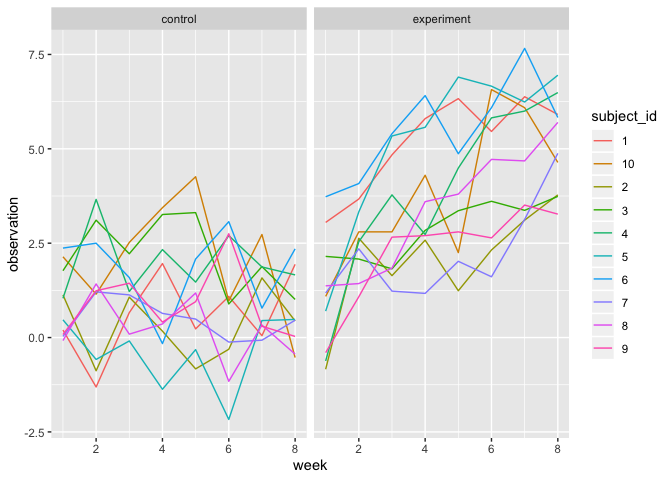
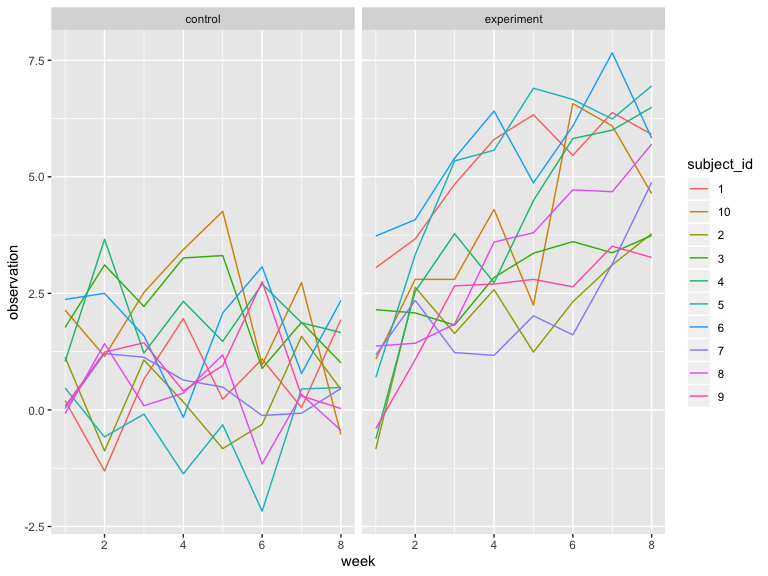
finish problem 3

Changed region(s): [[0.0, 0.0, 1.0, 1.0], [0.625, 0.0, 0.7188, 0.0625], [0.2188, 0.0, 0.3125, 0.0625]]

diff --git a/p8105_hw5_xh2395.md b/p8105_hw5_xh2395.md
@@ -17,8 +17,10 @@ library(tidyverse)
     ## ✔ readr   1.3.1     ✔ forcats 0.4.0
 
     ## ── Conflicts ───────────────────────────────────────────────────────────── tidyverse_conflicts() ──
-    ## ✖ dplyr::filter() masks stats::filter()
-    ## ✖ dplyr::lag()    masks stats::lag()
+    ## ✖ dplyr::filter()         masks stats::filter()
+    ## ✖ readr::guess_encoding() masks rvest::guess_encoding()
+    ## ✖ dplyr::lag()            masks stats::lag()
+    ## ✖ purrr::pluck()          masks rvest::pluck()
 
 ``` r
 set.seed(10)
@@ -44,15 +46,11 @@ fill_missing = function(x) {
 }
 ```
 
-**Apply the
-    fuction**
+**Apply the fuction**
 
 ``` r
 output = map_dfr(iris_with_missing, fill_missing)
 ```
-
-    ## Warning in mean.default(x, na.rm = TRUE): argument is not numeric or
-    ## logical: returning NA
 
 ## Problem 2
 
@@ -305,9 +303,6 @@ study_df = tibble(
     ##   week_8 = col_double()
     ## )
 
-    ## Warning: `cols` is now required.
-    ## Please use `cols = c(week_obs)`
-
 **Spaghetti plot**
 
 ``` r
@@ -318,7 +313,7 @@ study_df %>%
   facet_grid(. ~ arm)
 ```
 
-![](p8105_hw5_xh2395_files/figure-gfm/unnamed-chunk-5-1.png)<!-- -->
+<img src="p8105_hw5_xh2395_files/figure-gfm/unnamed-chunk-5-1.png" width="100%" />
 
 In the experiment arm, the observation on each subject increase over
 time. Even though the increase is not steady, the overall trend is
@@ -331,3 +326,106 @@ trend shows no increase.
 At 1st week, the observations in experiment arm are similar to the
 control arm. However, at 8th week, the observations in experiment arm
 are higher than the control arm.
+
+## Problem 3
+
+**The function**
+
+``` r
+sim_regression = function(n, beta0 = 2, beta1 = 0) {
+  
+  sim_data = tibble(
+    x = rnorm(n, mean = 0, sd = 1),
+    y = beta0 + beta1 * x + rnorm(n, 0, 50)
+  )
+  
+  fit = lm(y ~ x, data = sim_data)
+    
+  fit %>% 
+     broom::tidy() %>% 
+     filter(term == "x") %>% 
+     select(estimate, p.value)
+   
+}
+```
+
+**Try when β1 = 0**
+
+``` r
+sim_results = 
+  rerun(10000, sim_regression(30, 2, 0)) %>% 
+  bind_rows() %>% 
+  rename(beta1_hat = estimate, p_value = p.value)
+```
+
+**Repeat for β1={1,2,3,4,5,6}**
+
+``` r
+sim_results2 = 
+  tibble(beta1_true = 1:6) %>% 
+  mutate(
+    output_lists = map(.x = beta1_true, ~rerun(10000, sim_regression(30, beta0 = 2, beta1= .x))),
+    estimate_dfs = map(output_lists, bind_rows)) %>% 
+  select(-output_lists) %>% 
+  unnest(estimate_dfs) %>% 
+  rename(beta1_hat = estimate, p_value = p.value)
+```
+
+**Plot for the association between effect size and power**
+
+``` r
+sim_results2 %>% 
+  filter(p_value < 0.05) %>% 
+  group_by(beta1_true) %>%
+  summarize(n = n()) %>% 
+  mutate(power = n / 10000) %>% 
+  ggplot(aes(x = beta1_true, y = power)) + 
+  geom_point() +
+  geom_line() +
+  scale_x_continuous(breaks = seq(0, 6, 1)) +
+  labs(title = "The association between effect size and power")
+```
+
+<img src="p8105_hw5_xh2395_files/figure-gfm/unnamed-chunk-9-1.png" width="100%" />
+
+According to the plot, we find that the power goes higher when the
+effect size goes higher. There is a positive association between effect
+size and power.
+
+**Plot for average estimate of β̂1 and the true value of β1**
+
+``` r
+sim_results2 %>% 
+  group_by(beta1_true) %>%
+  summarize(average_estimate = mean(beta1_hat)) %>% 
+  ggplot(aes(x = beta1_true, y = average_estimate)) + 
+  geom_point() +
+  geom_line() +
+  scale_x_continuous(breaks = seq(0, 6, 1)) +
+  scale_y_continuous(breaks = seq(0, 7, 1)) +
+  labs(title = "The association between average estimate of β̂1 and the true value of β")
+```
+
+<img src="p8105_hw5_xh2395_files/figure-gfm/unnamed-chunk-10-1.png" width="100%" />
+
+**only in samples for which the null was rejected**
+
+``` r
+sim_results2 %>% 
+  filter(p_value < 0.05) %>% 
+  group_by(beta1_true) %>%
+  summarize(average_estimate = mean(beta1_hat)) %>% 
+  ggplot(aes(x = beta1_true, y = average_estimate)) + 
+  geom_point() +
+  geom_line() +
+  scale_x_continuous(breaks = seq(0, 6, 1)) +
+  labs(title = "The association between average β̂1 and β1 only when null was rejected")
+```
+
+<img src="p8105_hw5_xh2395_files/figure-gfm/unnamed-chunk-11-1.png" width="100%" />
+
+According to the plot, the sample average of β̂1 across tests for which
+the null is rejected is not approximately equal to the true value of β1.
+Because the null hypothesis is that the estimated β̂1 is equal to the
+true β1.If we use data only in samples for which the null was rejected,
+there is no doubt that estimated β̂1 is different from the true β.
